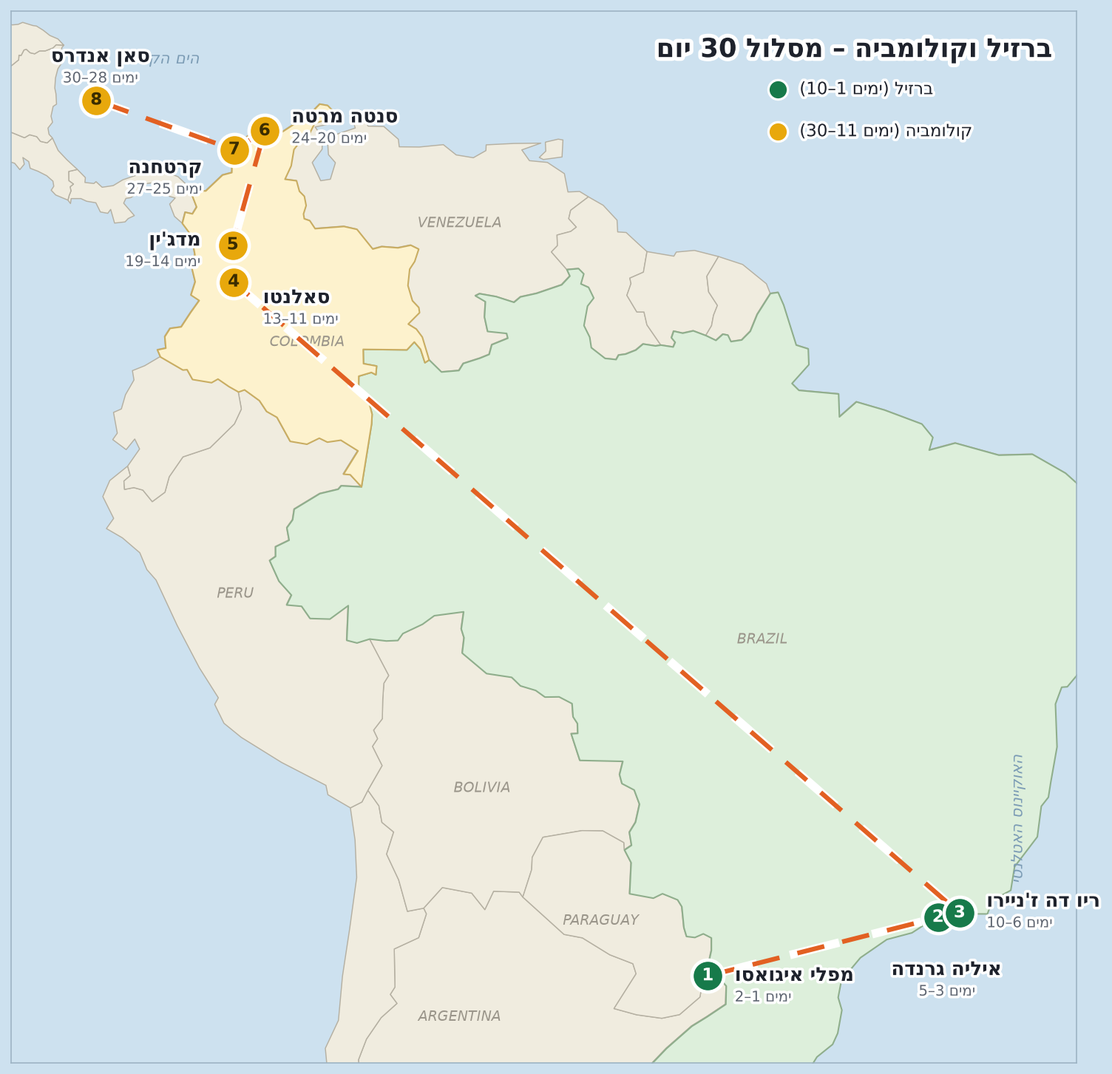
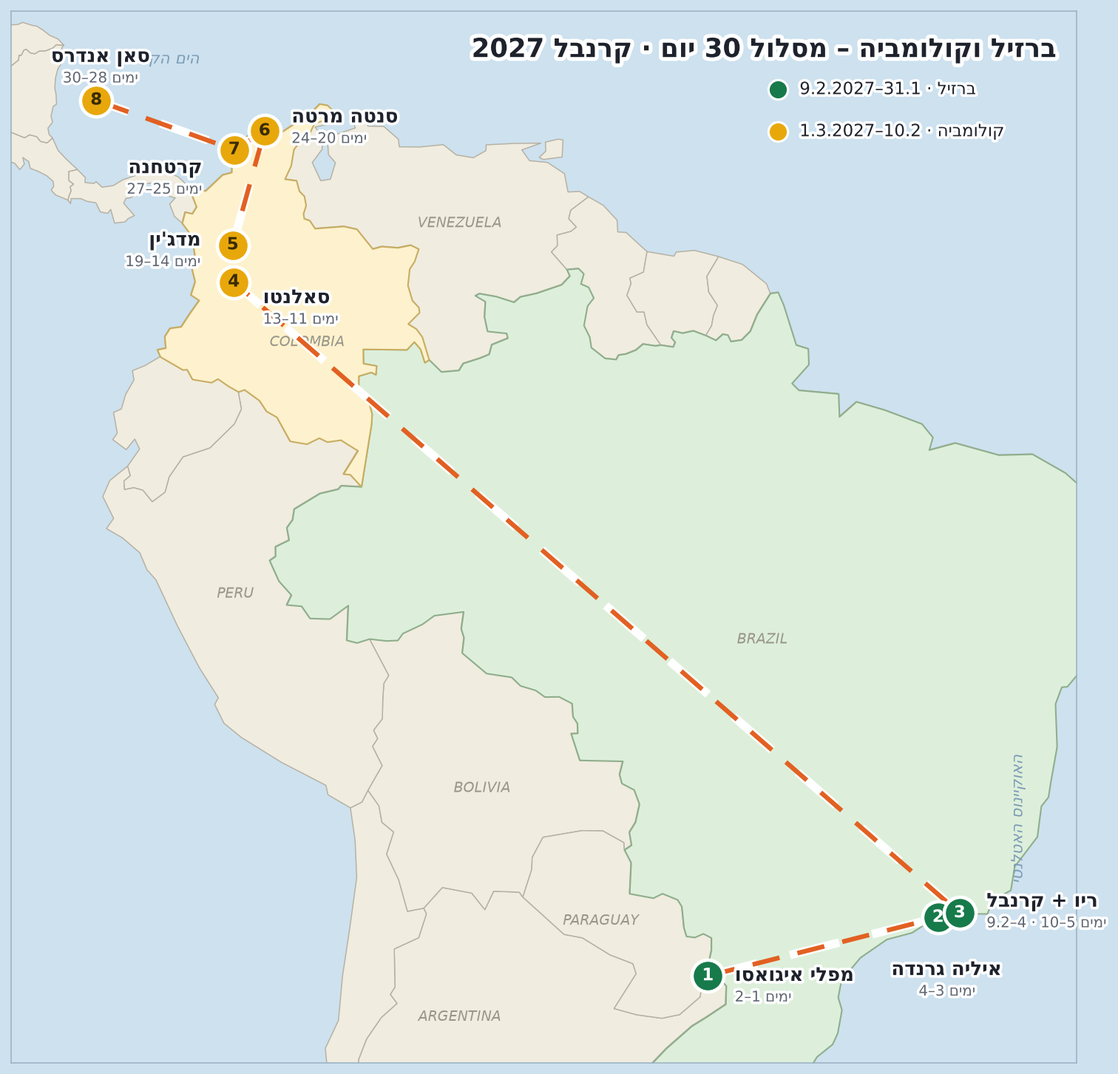
סידור מחדש של חלק ברזיל סביב קרנבל ריו 2027
- עיגון תאריכים: 31.1–1.3.2027, הקרנבל בריו 5–9.2.2027
- איליה גרנדה קוצר ל-2 ימים (3–4), ריו הורחב ל-6 ימים (5–10)
- נוספו 5 אתרי קרנבל: הסמבודרום + 4 בלוקוס מרכזיים עם ימים ושעות
- תאריכים לכל תחנות קולומביה + הערות הזמנה מראש
- עדכון מפת המסלול, דף הטיול, הדף האינטראקטיבי וקובצי ה-KML

Claude-Session: https://claude.ai/code/session_01GLda9AR3MwZ9KZ148tu3PR

diff --git a/trip-map.html b/trip-map.html
@@ -109,7 +109,7 @@
 <div class="wrap">
   <header class="top">
     <h1>🇧🇷🇨🇴 ברזיל וקולומביה — מפת המסלול</h1>
-    <p>30 יום · 8 תחנות · 85 מקומות מסומנים — כל לחיצה נפתחת ב־Google Maps</p>
+    <p>31.1 – 1.3.2027 · מתוזמן לקרנבל בריו 🎭 (5–9.2) · 90 מקומות — כל לחיצה נפתחת ב־Google Maps</p>
   </header>
 
   <figure class="map" id="map">
@@ -119,14 +119,14 @@
         <polyline class="route-halo" points="654.0,887.9 870.1,834.2 890.3,830.2 209.0,249.6 208.0,215.6 244.3,109.7 209.5,127.9 80.0,82.3"/>
         <polyline class="route-line" points="654.0,887.9 870.1,834.2 890.3,830.2 209.0,249.6 208.0,215.6 244.3,109.7 209.5,127.9 80.0,82.3"/>
       </svg>
-      <button class="pin br" style="left:65.40%;top:91.73%" data-target="stop-1" aria-label="איגואסו, ימים 1–2"><span class="dot">1</span><span class="lbl">איגואסו</span></button>
-      <button class="pin br" style="left:87.01%;top:86.17%" data-target="stop-2" aria-label="איליה גרנדה, ימים 3–5"><span class="dot">2</span><span class="lbl">איליה גרנדה</span></button>
-      <button class="pin br" style="left:89.03%;top:85.76%" data-target="stop-3" aria-label="ריו, ימים 6–10"><span class="dot">3</span><span class="lbl">ריו</span></button>
-      <button class="pin co" style="left:20.90%;top:25.79%" data-target="stop-4" aria-label="סאלנטו, ימים 11–13"><span class="dot">4</span><span class="lbl">סאלנטו</span></button>
-      <button class="pin co" style="left:20.80%;top:22.28%" data-target="stop-5" aria-label="מדג'ין, ימים 14–19"><span class="dot">5</span><span class="lbl">מדג'ין</span></button>
-      <button class="pin co" style="left:24.43%;top:11.34%" data-target="stop-6" aria-label="סנטה מרטה, ימים 20–24"><span class="dot">6</span><span class="lbl">סנטה מרטה</span></button>
-      <button class="pin co" style="left:20.95%;top:13.21%" data-target="stop-7" aria-label="קרטחנה, ימים 25–27"><span class="dot">7</span><span class="lbl">קרטחנה</span></button>
-      <button class="pin co" style="left:8.00%;top:8.50%" data-target="stop-8" aria-label="סאן אנדרס, ימים 28–30"><span class="dot">8</span><span class="lbl">סאן אנדרס</span></button>
+      <button class="pin br" style="left:65.40%;top:91.73%" data-target="stop-1" aria-label="איגואסו, ימים 1–2 · א׳–ב׳ 31.1–1.2.2027"><span class="dot">1</span><span class="lbl">איגואסו</span></button>
+      <button class="pin br" style="left:87.01%;top:86.17%" data-target="stop-2" aria-label="איליה גרנדה, ימים 3–4 · ג׳–ד׳ 2–3.2.2027"><span class="dot">2</span><span class="lbl">איליה גרנדה</span></button>
+      <button class="pin br" style="left:89.03%;top:85.76%" data-target="stop-3" aria-label="ריו, ימים 5–10 · ה׳–ג׳ 4–9.2.2027 · הקרנבל: 5–9.2"><span class="dot">3</span><span class="lbl">ריו</span></button>
+      <button class="pin co" style="left:20.90%;top:25.79%" data-target="stop-4" aria-label="סאלנטו, ימים 11–13 · 10–12.2.2027"><span class="dot">4</span><span class="lbl">סאלנטו</span></button>
+      <button class="pin co" style="left:20.80%;top:22.28%" data-target="stop-5" aria-label="מדג'ין, ימים 14–19 · 13–18.2.2027"><span class="dot">5</span><span class="lbl">מדג'ין</span></button>
+      <button class="pin co" style="left:24.43%;top:11.34%" data-target="stop-6" aria-label="סנטה מרטה, ימים 20–24 · 19–23.2.2027"><span class="dot">6</span><span class="lbl">סנטה מרטה</span></button>
+      <button class="pin co" style="left:20.95%;top:13.21%" data-target="stop-7" aria-label="קרטחנה, ימים 25–27 · 24–26.2.2027"><span class="dot">7</span><span class="lbl">קרטחנה</span></button>
+      <button class="pin co" style="left:8.00%;top:8.50%" data-target="stop-8" aria-label="סאן אנדרס, ימים 28–30 · 27.2–1.3.2027"><span class="dot">8</span><span class="lbl">סאן אנדרס</span></button>
     </div>
     <div class="ctrl">
       <button id="zin" aria-label="הגדלה">+</button>
@@ -144,7 +144,7 @@
     <span class="badge br">1</span>
     <div class="stop-t">
       <h2>🇧🇷 מפלי איגואסו (Foz do Iguaçu)</h2>
-      <p class="days">ימים 1–2</p>
+      <p class="days">ימים 1–2 · א׳–ב׳ 31.1–1.2.2027</p>
     </div>
     <a class="area" href="https://www.google.com/maps/search/?api=1&query=Foz%20do%20Igua%C3%A7u%2C%20Brazil" target="_blank" rel="noopener">האזור ב־Google Maps</a>
   </header>
@@ -157,25 +157,25 @@
     <span class="badge br">2</span>
     <div class="stop-t">
       <h2>🇧🇷 האי איליה גרנדה (Ilha Grande)</h2>
-      <p class="days">ימים 3–5</p>
+      <p class="days">ימים 3–4 · ג׳–ד׳ 2–3.2.2027 (קוצר ל-2 ימים לטובת הקרנבל)</p>
     </div>
     <a class="area" href="https://www.google.com/maps/search/?api=1&query=Ilha%20Grande%2C%20Brazil" target="_blank" rel="noopener">האזור ב־Google Maps</a>
   </header>
   <p class="transfer">➔ ✈ טיסה מ-IGU לריו (SDU/GIG) ← 🚐 שאטל ל-Conceição de Jacareí ← 🛥 סירה מהירה לאי.</p>
-  <div class="rows"><a class="row transport" href="https://www.google.com/maps/search/?api=1&query=Concei%C3%A7%C3%A3o%20de%20Jacare%C3%AD%2C%20Mangaratiba" target="_blank" rel="noopener"><span class="em" aria-hidden="true">✈</span><span class="txt"><span class="nm">נמל Conceição de Jacareí</span><span class="ds">נקודת היציאה של הסירות המהירות לאיליה גרנדה (כ-20 דק').</span></span><span class="go" aria-hidden="true">‹</span></a><a class="row attraction" href="https://www.google.com/maps/search/?api=1&query=Vila%20do%20Abra%C3%A3o%2C%20Ilha%20Grande" target="_blank" rel="noopener"><span class="em" aria-hidden="true">🥾</span><span class="txt"><span class="nm">Vila do Abraão – הכפר הראשי</span><span class="ds">הכפר הראשי של האי – בסיס הלינה, המסעדות והסירות.</span></span><span class="go" aria-hidden="true">‹</span></a><a class="row attraction" href="https://www.google.com/maps/search/?api=1&query=Praia%20de%20Lopes%20Mendes%2C%20Ilha%20Grande" target="_blank" rel="noopener"><span class="em" aria-hidden="true">🥾</span><span class="txt"><span class="nm">חוף Lopes Mendes</span><span class="ds">טרק של כ-2.5 שעות בג'ונגל מ-Abraão לאחד החופים היפים בברזיל.</span></span><span class="go" aria-hidden="true">‹</span></a><a class="row attraction" href="https://www.google.com/maps/search/?api=1&query=Lagoa%20Azul%2C%20Ilha%20Grande" target="_blank" rel="noopener"><span class="em" aria-hidden="true">🥾</span><span class="txt"><span class="nm">Lagoa Azul – הלגונה הכחולה</span><span class="ds">עצירת שנורקול בשיט Volta a Ilha ללגונות הטורקיז.</span></span><span class="go" aria-hidden="true">‹</span></a><a class="row nightlife" href="https://www.google.com/maps/search/?api=1&query=Praia%20do%20Abra%C3%A3o%2C%20Ilha%20Grande" target="_blank" rel="noopener"><span class="em" aria-hidden="true">🍻</span><span class="txt"><span class="nm">חוף Abraão – מסיבות Forró ומדורות</span><span class="ds">מסיבות Forró על קו המים ומדורות בחוף בלילה.</span></span><span class="go" aria-hidden="true">‹</span></a><a class="row hotel" href="https://www.google.com/maps/search/?api=1&query=Pousada%20Naturalia%2C%20Ilha%20Grande" target="_blank" rel="noopener"><span class="em" aria-hidden="true">🏨</span><span class="txt"><span class="nm">Pousada Naturalia (בוטיק)</span><span class="ds">פוסאדת בוטיק על החוף ב-Vila do Abraão.</span></span><span class="go" aria-hidden="true">‹</span></a><a class="row hotel" href="https://www.google.com/maps/search/?api=1&query=Che%20Lagarto%20Hostel%20Ilha%20Grande" target="_blank" rel="noopener"><span class="em" aria-hidden="true">🏨</span><span class="txt"><span class="nm">Che Lagarto Hostel (הוסטל)</span><span class="ds">הוסטל ברמה גבוהה במרכז Abraão.</span></span><span class="go" aria-hidden="true">‹</span></a></div>
+  <div class="rows"><a class="row transport" href="https://www.google.com/maps/search/?api=1&query=Concei%C3%A7%C3%A3o%20de%20Jacare%C3%AD%2C%20Mangaratiba" target="_blank" rel="noopener"><span class="em" aria-hidden="true">✈</span><span class="txt"><span class="nm">נמל Conceição de Jacareí</span><span class="ds">נקודת היציאה של הסירות המהירות לאיליה גרנדה (כ-20 דק').</span></span><span class="go" aria-hidden="true">‹</span></a><a class="row attraction" href="https://www.google.com/maps/search/?api=1&query=Vila%20do%20Abra%C3%A3o%2C%20Ilha%20Grande" target="_blank" rel="noopener"><span class="em" aria-hidden="true">🥾</span><span class="txt"><span class="nm">Vila do Abraão – הכפר הראשי</span><span class="ds">הכפר הראשי של האי – בסיס הלינה, המסעדות והסירות.</span></span><span class="go" aria-hidden="true">‹</span></a><a class="row attraction" href="https://www.google.com/maps/search/?api=1&query=Praia%20de%20Lopes%20Mendes%2C%20Ilha%20Grande" target="_blank" rel="noopener"><span class="em" aria-hidden="true">🥾</span><span class="txt"><span class="nm">חוף Lopes Mendes</span><span class="ds">טרק של כ-2.5 שעות בג'ונגל מ-Abraão לאחד החופים היפים בברזיל. עם 2 ימים בלבד – זה הטרק שחובה לבחור.</span></span><span class="go" aria-hidden="true">‹</span></a><a class="row attraction" href="https://www.google.com/maps/search/?api=1&query=Lagoa%20Azul%2C%20Ilha%20Grande" target="_blank" rel="noopener"><span class="em" aria-hidden="true">🥾</span><span class="txt"><span class="nm">Lagoa Azul – הלגונה הכחולה</span><span class="ds">עצירת שנורקול בשיט Volta a Ilha ללגונות הטורקיז.</span></span><span class="go" aria-hidden="true">‹</span></a><a class="row nightlife" href="https://www.google.com/maps/search/?api=1&query=Praia%20do%20Abra%C3%A3o%2C%20Ilha%20Grande" target="_blank" rel="noopener"><span class="em" aria-hidden="true">🍻</span><span class="txt"><span class="nm">חוף Abraão – מסיבות Forró ומדורות</span><span class="ds">מסיבות Forró על קו המים ומדורות בחוף בלילה.</span></span><span class="go" aria-hidden="true">‹</span></a><a class="row hotel" href="https://www.google.com/maps/search/?api=1&query=Pousada%20Naturalia%2C%20Ilha%20Grande" target="_blank" rel="noopener"><span class="em" aria-hidden="true">🏨</span><span class="txt"><span class="nm">Pousada Naturalia (בוטיק)</span><span class="ds">פוסאדת בוטיק על החוף ב-Vila do Abraão.</span></span><span class="go" aria-hidden="true">‹</span></a><a class="row hotel" href="https://www.google.com/maps/search/?api=1&query=Che%20Lagarto%20Hostel%20Ilha%20Grande" target="_blank" rel="noopener"><span class="em" aria-hidden="true">🏨</span><span class="txt"><span class="nm">Che Lagarto Hostel (הוסטל)</span><span class="ds">הוסטל ברמה גבוהה במרכז Abraão.</span></span><span class="go" aria-hidden="true">‹</span></a></div>
 </section>
 
 <section class="stop" id="stop-3">
   <header class="stop-h">
     <span class="badge br">3</span>
     <div class="stop-t">
-      <h2>🇧🇷 ריו דה ז'ניירו (Rio de Janeiro)</h2>
-      <p class="days">ימים 6–10</p>
+      <h2>🇧🇷 ריו דה ז'ניירו + קרנבל 2027</h2>
+      <p class="days">ימים 5–10 · ה׳–ג׳ 4–9.2.2027 · הקרנבל: 5–9.2</p>
     </div>
     <a class="area" href="https://www.google.com/maps/search/?api=1&query=Rio%20de%20Janeiro%2C%20Brazil" target="_blank" rel="noopener">האזור ב־Google Maps</a>
   </header>
-  <p class="transfer">➔ 🛥 סירה חזרה ליבשה ← 🚐 שאטל ישיר לריו דה ז'ניירו (כ-3 שעות).</p>
-  <div class="rows"><a class="row attraction" href="https://www.google.com/maps/search/?api=1&query=Cristo%20Redentor%2C%20Rio%20de%20Janeiro" target="_blank" rel="noopener"><span class="em" aria-hidden="true">🥾</span><span class="txt"><span class="nm">פסל ישו הגואל</span><span class="ds">האייקון של ריו על הר הקורקובדו – לעלות ברכבת הקוגים או בוואן.</span></span><span class="go" aria-hidden="true">‹</span></a><a class="row attraction" href="https://www.google.com/maps/search/?api=1&query=P%C3%A3o%20de%20A%C3%A7%C3%BAcar%2C%20Rio%20de%20Janeiro" target="_blank" rel="noopener"><span class="em" aria-hidden="true">🥾</span><span class="txt"><span class="nm">הר הסוכר (Pão de Açúcar)</span><span class="ds">רכבל לתצפית השקיעה הכי טובה בעיר.</span></span><span class="go" aria-hidden="true">‹</span></a><a class="row attraction" href="https://www.google.com/maps/search/?api=1&query=Praia%20de%20Ipanema%2C%20Rio%20de%20Janeiro" target="_blank" rel="noopener"><span class="em" aria-hidden="true">🥾</span><span class="txt"><span class="nm">חוף איפנמה</span><span class="ds">החוף המפורסם – פוסטו 9, שקיעה ב-Arpoador ליד.</span></span><span class="go" aria-hidden="true">‹</span></a><a class="row attraction" href="https://www.google.com/maps/search/?api=1&query=Praia%20de%20Copacabana%2C%20Rio%20de%20Janeiro" target="_blank" rel="noopener"><span class="em" aria-hidden="true">🥾</span><span class="txt"><span class="nm">חוף קופקבנה</span><span class="ds">טיילת הגלים המפורסמת.</span></span><span class="go" aria-hidden="true">‹</span></a><a class="row attraction" href="https://www.google.com/maps/search/?api=1&query=Trilha%20Morro%20Dois%20Irm%C3%A3os%2C%20Vidigal%2C%20Rio%20de%20Janeiro" target="_blank" rel="noopener"><span class="em" aria-hidden="true">🥾</span><span class="txt"><span class="nm">טרק Morro Dois Irmãos (מפאבלת וידיגל)</span><span class="ds">מוטו-טקסי לראש פאבלת וידיגל + כ-40 דק' הליכה לתצפית הכי שווה בריו.</span></span><span class="go" aria-hidden="true">‹</span></a><a class="row nightlife" href="https://www.google.com/maps/search/?api=1&query=Pedra%20do%20Sal%2C%20Rio%20de%20Janeiro" target="_blank" rel="noopener"><span class="em" aria-hidden="true">🍻</span><span class="txt"><span class="nm">Pedra do Sal – סמבה פתוחה</span><span class="ds">מסיבת סמבה פתוחה ברחוב – בימי שני ושישי.</span></span><span class="go" aria-hidden="true">‹</span></a><a class="row nightlife" href="https://www.google.com/maps/search/?api=1&query=Rio%20Scenarium%2C%20Lapa%2C%20Rio%20de%20Janeiro" target="_blank" rel="noopener"><span class="em" aria-hidden="true">🍻</span><span class="txt"><span class="nm">Rio Scenarium – מועדון סמבה בלאפה</span><span class="ds">מועדון סמבה איקוני על 3 קומות בלאפה.</span></span><span class="go" aria-hidden="true">‹</span></a><a class="row nightlife" href="https://www.google.com/maps/search/?api=1&query=Bosque%20Bar%2C%20Rio%20de%20Janeiro" target="_blank" rel="noopener"><span class="em" aria-hidden="true">🍻</span><span class="txt"><span class="nm">Bosque Bar – רופטופ</span><span class="ds">בר רופטופ ירוק ואווירתי.</span></span><span class="go" aria-hidden="true">‹</span></a><a class="row nightlife" href="https://www.google.com/maps/search/?api=1&query=Canastra%20Bar%2C%20Ipanema%2C%20Rio%20de%20Janeiro" target="_blank" rel="noopener"><span class="em" aria-hidden="true">🍻</span><span class="txt"><span class="nm">Canastra Rose – בר קוקטיילים</span><span class="ds">בר קוקטיילים/יין צרפתי-ברזילאי באיפנמה.</span></span><span class="go" aria-hidden="true">‹</span></a><a class="row hotel" href="https://www.google.com/maps/search/?api=1&query=Yoo2%20Rio%20de%20Janeiro%20by%20Intercity" target="_blank" rel="noopener"><span class="em" aria-hidden="true">🏨</span><span class="txt"><span class="nm">Yoo2 Rio (בוטיק)</span><span class="ds">מלון בוטיק מעוצב עם רופטופ מול הר הסוכר (בוטפוגו).</span></span><span class="go" aria-hidden="true">‹</span></a><a class="row hotel" href="https://www.google.com/maps/search/?api=1&query=Janeiro%20Hotel%2C%20Leblon%2C%20Rio%20de%20Janeiro" target="_blank" rel="noopener"><span class="em" aria-hidden="true">🏨</span><span class="txt"><span class="nm">Janeiro Hotel (בוטיק)</span><span class="ds">מלון בוטיק שקט מול חוף לבלון.</span></span><span class="go" aria-hidden="true">‹</span></a><a class="row hotel" href="https://www.google.com/maps/search/?api=1&query=Selina%20Copacabana%2C%20Rio%20de%20Janeiro" target="_blank" rel="noopener"><span class="em" aria-hidden="true">🏨</span><span class="txt"><span class="nm">Selina Copacabana (הוסטל)</span><span class="ds">הוסטל-בוטיק ברמה גבוהה בקופקבנה.</span></span><span class="go" aria-hidden="true">‹</span></a><a class="row hotel" href="https://www.google.com/maps/search/?api=1&query=Ipanema%20Beach%20House%2C%20Rio%20de%20Janeiro" target="_blank" rel="noopener"><span class="em" aria-hidden="true">🏨</span><span class="txt"><span class="nm">Ipanema Beach House (הוסטל)</span><span class="ds">הוסטל עם בריכה במרחק הליכה מחוף איפנמה.</span></span><span class="go" aria-hidden="true">‹</span></a><a class="row transport" href="https://www.google.com/maps/search/?api=1&query=Santos%20Dumont%20Airport%2C%20Rio%20de%20Janeiro" target="_blank" rel="noopener"><span class="em" aria-hidden="true">✈</span><span class="txt"><span class="nm">שדה תעופה סנטוס דומון (SDU)</span><span class="ds">שדה פנים-ארצי במרכז העיר.</span></span><span class="go" aria-hidden="true">‹</span></a><a class="row transport" href="https://www.google.com/maps/search/?api=1&query=Rio%20de%20Janeiro%E2%80%93Gale%C3%A3o%20International%20Airport" target="_blank" rel="noopener"><span class="em" aria-hidden="true">✈</span><span class="txt"><span class="nm">שדה תעופה גליאאו (GIG)</span><span class="ds">השדה הבינלאומי – ממנו ממריאים לבוגוטה.</span></span><span class="go" aria-hidden="true">‹</span></a></div>
+  <p class="transfer">➔ 🛥 סירה חזרה ליבשה בבוקר יום ה׳ ← 🚐 שאטל ישיר לריו (כ-3 שעות). 🎭 קרנבל! להזמין לינה וכרטיסי סמבודרום 3–6 חודשים מראש – המחירים משולשים והכול נתפס.</p>
+  <div class="rows"><a class="row attraction" href="https://www.google.com/maps/search/?api=1&query=Cristo%20Redentor%2C%20Rio%20de%20Janeiro" target="_blank" rel="noopener"><span class="em" aria-hidden="true">🥾</span><span class="txt"><span class="nm">פסל ישו הגואל</span><span class="ds">האייקון של ריו על הר הקורקובדו – לעלות ברכבת הקוגים או בוואן.</span></span><span class="go" aria-hidden="true">‹</span></a><a class="row attraction" href="https://www.google.com/maps/search/?api=1&query=P%C3%A3o%20de%20A%C3%A7%C3%BAcar%2C%20Rio%20de%20Janeiro" target="_blank" rel="noopener"><span class="em" aria-hidden="true">🥾</span><span class="txt"><span class="nm">הר הסוכר (Pão de Açúcar)</span><span class="ds">רכבל לתצפית השקיעה הכי טובה בעיר.</span></span><span class="go" aria-hidden="true">‹</span></a><a class="row attraction" href="https://www.google.com/maps/search/?api=1&query=Praia%20de%20Ipanema%2C%20Rio%20de%20Janeiro" target="_blank" rel="noopener"><span class="em" aria-hidden="true">🥾</span><span class="txt"><span class="nm">חוף איפנמה</span><span class="ds">החוף המפורסם – פוסטו 9, שקיעה ב-Arpoador ליד.</span></span><span class="go" aria-hidden="true">‹</span></a><a class="row attraction" href="https://www.google.com/maps/search/?api=1&query=Praia%20de%20Copacabana%2C%20Rio%20de%20Janeiro" target="_blank" rel="noopener"><span class="em" aria-hidden="true">🥾</span><span class="txt"><span class="nm">חוף קופקבנה</span><span class="ds">טיילת הגלים המפורסמת.</span></span><span class="go" aria-hidden="true">‹</span></a><a class="row attraction" href="https://www.google.com/maps/search/?api=1&query=Trilha%20Morro%20Dois%20Irm%C3%A3os%2C%20Vidigal%2C%20Rio%20de%20Janeiro" target="_blank" rel="noopener"><span class="em" aria-hidden="true">🥾</span><span class="txt"><span class="nm">טרק Morro Dois Irmãos (מפאבלת וידיגל)</span><span class="ds">מוטו-טקסי לראש פאבלת וידיגל + כ-40 דק' הליכה לתצפית הכי שווה בריו.</span></span><span class="go" aria-hidden="true">‹</span></a><a class="row attraction" href="https://www.google.com/maps/search/?api=1&query=Sambodromo%20Marques%20de%20Sapucai%2C%20Rio%20de%20Janeiro" target="_blank" rel="noopener"><span class="em" aria-hidden="true">🥾</span><span class="txt"><span class="nm">🎭 הסמבודרום – מצעדי הליגה הבכירה</span><span class="ds">האירוע המרכזי של הקרנבל: מצעדי בתי הספר הבכירים בימים ראשון–שלישי 7–9.2 מ-21:00 עד הבוקר. כרטיסים מראש!</span></span><span class="go" aria-hidden="true">‹</span></a><a class="row nightlife" href="https://www.google.com/maps/search/?api=1&query=Cordao%20da%20Bola%20Preta%2C%20Centro%2C%20Rio%20de%20Janeiro" target="_blank" rel="noopener"><span class="em" aria-hidden="true">🍻</span><span class="txt"><span class="nm">🎭 בלוקו Cordão da Bola Preta</span><span class="ds">בלוקו הרחוב הוותיק והענק של ריו – שבת 6.2 בבוקר במרכז העיר. מיליון חוגגים ברחוב.</span></span><span class="go" aria-hidden="true">‹</span></a><a class="row nightlife" href="https://www.google.com/maps/search/?api=1&query=Largo%20do%20Curvelo%2C%20Santa%20Teresa%2C%20Rio%20de%20Janeiro" target="_blank" rel="noopener"><span class="em" aria-hidden="true">🍻</span><span class="txt"><span class="nm">🎭 בלוקו Carmelitas – סנטה טרזה</span><span class="ds">בלוקו שכונתי אהוב בסמטאות סנטה טרזה – פתיחת הקרנבל, שישי 5.2.</span></span><span class="go" aria-hidden="true">‹</span></a><a class="row nightlife" href="https://www.google.com/maps/search/?api=1&query=Aterro%20do%20Flamengo%2C%20Rio%20de%20Janeiro" target="_blank" rel="noopener"><span class="em" aria-hidden="true">🍻</span><span class="txt"><span class="nm">🎭 בלוקו Sargento Pimenta</span><span class="ds">סמבה על שירי הביטלס בפארק פלמנגו – שני 8.2. מהבלוקוס הכי כיפיים בעיר.</span></span><span class="go" aria-hidden="true">‹</span></a><a class="row nightlife" href="https://www.google.com/maps/search/?api=1&query=Praia%20de%20Copacabana%2C%20Posto%205%2C%20Rio%20de%20Janeiro" target="_blank" rel="noopener"><span class="em" aria-hidden="true">🍻</span><span class="txt"><span class="nm">🎭 בלוקו da Favorita – קופקבנה</span><span class="ds">במת ענק ומסיבה על קו החוף של קופקבנה – שבת 6.2 אחה״צ.</span></span><span class="go" aria-hidden="true">‹</span></a><a class="row nightlife" href="https://www.google.com/maps/search/?api=1&query=Pedra%20do%20Sal%2C%20Rio%20de%20Janeiro" target="_blank" rel="noopener"><span class="em" aria-hidden="true">🍻</span><span class="txt"><span class="nm">Pedra do Sal – סמבה פתוחה</span><span class="ds">מסיבת סמבה פתוחה ברחוב – בימי שני ושישי.</span></span><span class="go" aria-hidden="true">‹</span></a><a class="row nightlife" href="https://www.google.com/maps/search/?api=1&query=Rio%20Scenarium%2C%20Lapa%2C%20Rio%20de%20Janeiro" target="_blank" rel="noopener"><span class="em" aria-hidden="true">🍻</span><span class="txt"><span class="nm">Rio Scenarium – מועדון סמבה בלאפה</span><span class="ds">מועדון סמבה איקוני על 3 קומות בלאפה.</span></span><span class="go" aria-hidden="true">‹</span></a><a class="row nightlife" href="https://www.google.com/maps/search/?api=1&query=Bosque%20Bar%2C%20Rio%20de%20Janeiro" target="_blank" rel="noopener"><span class="em" aria-hidden="true">🍻</span><span class="txt"><span class="nm">Bosque Bar – רופטופ</span><span class="ds">בר רופטופ ירוק ואווירתי.</span></span><span class="go" aria-hidden="true">‹</span></a><a class="row nightlife" href="https://www.google.com/maps/search/?api=1&query=Canastra%20Bar%2C%20Ipanema%2C%20Rio%20de%20Janeiro" target="_blank" rel="noopener"><span class="em" aria-hidden="true">🍻</span><span class="txt"><span class="nm">Canastra Rose – בר קוקטיילים</span><span class="ds">בר קוקטיילים/יין צרפתי-ברזילאי באיפנמה.</span></span><span class="go" aria-hidden="true">‹</span></a><a class="row hotel" href="https://www.google.com/maps/search/?api=1&query=Yoo2%20Rio%20de%20Janeiro%20by%20Intercity" target="_blank" rel="noopener"><span class="em" aria-hidden="true">🏨</span><span class="txt"><span class="nm">Yoo2 Rio (בוטיק)</span><span class="ds">מלון בוטיק מעוצב עם רופטופ מול הר הסוכר (בוטפוגו). בקרנבל – להזמין חודשים מראש!</span></span><span class="go" aria-hidden="true">‹</span></a><a class="row hotel" href="https://www.google.com/maps/search/?api=1&query=Janeiro%20Hotel%2C%20Leblon%2C%20Rio%20de%20Janeiro" target="_blank" rel="noopener"><span class="em" aria-hidden="true">🏨</span><span class="txt"><span class="nm">Janeiro Hotel (בוטיק)</span><span class="ds">מלון בוטיק שקט מול חוף לבלון.</span></span><span class="go" aria-hidden="true">‹</span></a><a class="row hotel" href="https://www.google.com/maps/search/?api=1&query=Selina%20Copacabana%2C%20Rio%20de%20Janeiro" target="_blank" rel="noopener"><span class="em" aria-hidden="true">🏨</span><span class="txt"><span class="nm">Selina Copacabana (הוסטל)</span><span class="ds">הוסטל-בוטיק ברמה גבוהה בקופקבנה.</span></span><span class="go" aria-hidden="true">‹</span></a><a class="row hotel" href="https://www.google.com/maps/search/?api=1&query=Ipanema%20Beach%20House%2C%20Rio%20de%20Janeiro" target="_blank" rel="noopener"><span class="em" aria-hidden="true">🏨</span><span class="txt"><span class="nm">Ipanema Beach House (הוסטל)</span><span class="ds">הוסטל עם בריכה במרחק הליכה מחוף איפנמה.</span></span><span class="go" aria-hidden="true">‹</span></a><a class="row transport" href="https://www.google.com/maps/search/?api=1&query=Santos%20Dumont%20Airport%2C%20Rio%20de%20Janeiro" target="_blank" rel="noopener"><span class="em" aria-hidden="true">✈</span><span class="txt"><span class="nm">שדה תעופה סנטוס דומון (SDU)</span><span class="ds">שדה פנים-ארצי במרכז העיר.</span></span><span class="go" aria-hidden="true">‹</span></a><a class="row transport" href="https://www.google.com/maps/search/?api=1&query=Rio%20de%20Janeiro%E2%80%93Gale%C3%A3o%20International%20Airport" target="_blank" rel="noopener"><span class="em" aria-hidden="true">✈</span><span class="txt"><span class="nm">שדה תעופה גליאאו (GIG)</span><span class="ds">השדה הבינלאומי – ממנו ממריאים לבוגוטה.</span></span><span class="go" aria-hidden="true">‹</span></a></div>
 </section>
 
 <section class="stop" id="stop-4">
@@ -183,11 +183,11 @@
     <span class="badge co">4</span>
     <div class="stop-t">
       <h2>🇨🇴 עמק הקפה – סאלנטו (Salento)</h2>
-      <p class="days">ימים 11–13 (1–3 בקולומביה)</p>
+      <p class="days">ימים 11–13 · 10–12.2.2027 (1–3 בקולומביה)</p>
     </div>
     <a class="area" href="https://www.google.com/maps/search/?api=1&query=Salento%2C%20Quind%C3%ADo%2C%20Colombia" target="_blank" rel="noopener">האזור ב־Google Maps</a>
   </header>
-  <p class="transfer">➔ ✈ ריו (GIG) ← בוגוטה (BOG) ← טיסת פנים לפרירה (PEI) / ארמניה (AXM) ← 🚕 מונית קצרה לסאלנטו.</p>
+  <p class="transfer">➔ ✈ יום ד׳ 10.2 (למחרת סיום הקרנבל): ריו (GIG) ← בוגוטה (BOG) ← טיסת פנים לפרירה (PEI) / ארמניה (AXM) ← 🚕 מונית קצרה לסאלנטו.</p>
   <div class="rows"><a class="row transport" href="https://www.google.com/maps/search/?api=1&query=Mateca%C3%B1a%20International%20Airport%2C%20Pereira" target="_blank" rel="noopener"><span class="em" aria-hidden="true">✈</span><span class="txt"><span class="nm">שדה תעופה פרירה (PEI)</span><span class="ds">אופציית נחיתה 1 – כשעה נסיעה לסאלנטו.</span></span><span class="go" aria-hidden="true">‹</span></a><a class="row transport" href="https://www.google.com/maps/search/?api=1&query=El%20Ed%C3%A9n%20International%20Airport%2C%20Armenia" target="_blank" rel="noopener"><span class="em" aria-hidden="true">✈</span><span class="txt"><span class="nm">שדה תעופה ארמניה (AXM)</span><span class="ds">אופציית נחיתה 2 – כ-50 דק' נסיעה לסאלנטו.</span></span><span class="go" aria-hidden="true">‹</span></a><a class="row attraction" href="https://www.google.com/maps/search/?api=1&query=Plaza%20de%20Bol%C3%ADvar%2C%20Salento%2C%20Quind%C3%ADo" target="_blank" rel="noopener"><span class="em" aria-hidden="true">🥾</span><span class="txt"><span class="nm">כיכר סאלנטו והרחוב הצבעוני</span><span class="ds">העיירה הצבעונית של עמק הקפה – Calle Real והמירדור.</span></span><span class="go" aria-hidden="true">‹</span></a><a class="row attraction" href="https://www.google.com/maps/search/?api=1&query=Valle%20de%20Cocora%2C%20Salento" target="_blank" rel="noopener"><span class="em" aria-hidden="true">🥾</span><span class="txt"><span class="nm">טרק עמק הקוקורה (Valle de Cocora)</span><span class="ds">טרק 5–6 שעות בין עצי דקל השעווה הענקיים. ג'יפים יוצאים מהכיכר בבוקר.</span></span><span class="go" aria-hidden="true">‹</span></a><a class="row attraction" href="https://www.google.com/maps/search/?api=1&query=Finca%20El%20Ocaso%20/%20Cafe%20Don%20Elias%2C%20Salento" target="_blank" rel="noopener"><span class="em" aria-hidden="true">🥾</span><span class="txt"><span class="nm">חוות הקפה Don Elias</span><span class="ds">סיור קפה משפחתי אורגני – מהפרי אל הכוס.</span></span><span class="go" aria-hidden="true">‹</span></a><a class="row attraction" href="https://www.google.com/maps/search/?api=1&query=Filandia%2C%20Quind%C3%ADo" target="_blank" rel="noopener"><span class="em" aria-hidden="true">🥾</span><span class="txt"><span class="nm">פילנדיה (Filandia)</span><span class="ds">עיירה צבעונית ושקטה ליום כיף – 30 דק' מסאלנטו.</span></span><span class="go" aria-hidden="true">‹</span></a><a class="row nightlife" href="https://www.google.com/maps/search/?api=1&query=Cancha%20de%20Tejo%20Los%20Amigos%2C%20Salento" target="_blank" rel="noopener"><span class="em" aria-hidden="true">🍻</span><span class="txt"><span class="nm">Los Amigos – משחק טחו</span><span class="ds">טחו – זריקות על מטרות אבק שריפה + בירה. חובה!</span></span><span class="go" aria-hidden="true">‹</span></a><a class="row nightlife" href="https://www.google.com/maps/search/?api=1&query=Billar%20Danubio%2C%20Salento" target="_blank" rel="noopener"><span class="em" aria-hidden="true">🍻</span><span class="txt"><span class="nm">Billar Danubio – ביליארד מקומי</span><span class="ds">אולם ביליארד מקומי אותנטי על הכיכר.</span></span><span class="go" aria-hidden="true">‹</span></a><a class="row hotel" href="https://www.google.com/maps/search/?api=1&query=Kawa%20Mountain%20Retreat%2C%20Salento" target="_blank" rel="noopener"><span class="em" aria-hidden="true">🏨</span><span class="txt"><span class="nm">Hotel Kawa Mountain Retreat (בוטיק)</span><span class="ds">ריטריט בוטיק עם נוף להרים.</span></span><span class="go" aria-hidden="true">‹</span></a><a class="row hotel" href="https://www.google.com/maps/search/?api=1&query=Coffee%20Tree%20Boutique%20Hostel%2C%20Salento" target="_blank" rel="noopener"><span class="em" aria-hidden="true">🏨</span><span class="txt"><span class="nm">Coffee Tree Boutique Hostel (הוסטל)</span><span class="ds">הוסטל בוטיק ברמה גבוהה.</span></span><span class="go" aria-hidden="true">‹</span></a></div>
 </section>
 
@@ -196,7 +196,7 @@
     <span class="badge co">5</span>
     <div class="stop-t">
       <h2>🇨🇴 מדג'ין (Medellín)</h2>
-      <p class="days">ימים 14–19 (4–9 בקולומביה)</p>
+      <p class="days">ימים 14–19 · 13–18.2.2027 (4–9 בקולומביה)</p>
     </div>
     <a class="area" href="https://www.google.com/maps/search/?api=1&query=Medell%C3%ADn%2C%20Colombia" target="_blank" rel="noopener">האזור ב־Google Maps</a>
   </header>
@@ -209,7 +209,7 @@
     <span class="badge co">6</span>
     <div class="stop-t">
       <h2>🇨🇴 סנטה מרטה, מינקה וטיירונה</h2>
-      <p class="days">ימים 20–24 (10–14 בקולומביה)</p>
+      <p class="days">ימים 20–24 · 19–23.2.2027 (10–14 בקולומביה)</p>
     </div>
     <a class="area" href="https://www.google.com/maps/search/?api=1&query=Santa%20Marta%2C%20Colombia" target="_blank" rel="noopener">האזור ב־Google Maps</a>
   </header>
@@ -222,7 +222,7 @@
     <span class="badge co">7</span>
     <div class="stop-t">
       <h2>🇨🇴 קרטחנה (Cartagena)</h2>
-      <p class="days">ימים 25–27 (15–17 בקולומביה)</p>
+      <p class="days">ימים 25–27 · 24–26.2.2027 (15–17 בקולומביה)</p>
     </div>
     <a class="area" href="https://www.google.com/maps/search/?api=1&query=Cartagena%2C%20Colombia" target="_blank" rel="noopener">האזור ב־Google Maps</a>
   </header>
@@ -235,7 +235,7 @@
     <span class="badge co">8</span>
     <div class="stop-t">
       <h2>🇨🇴 האי סאן אנדרס (San Andrés)</h2>
-      <p class="days">ימים 28–30 (18–20 בקולומביה)</p>
+      <p class="days">ימים 28–30 · 27.2–1.3.2027 (18–20 בקולומביה)</p>
     </div>
     <a class="area" href="https://www.google.com/maps/search/?api=1&query=San%20Andr%C3%A9s%2C%20Colombia" target="_blank" rel="noopener">האזור ב־Google Maps</a>
   </header>

diff --git a/trip.html b/trip.html
@@ -60,7 +60,7 @@
 <div class="wrap">
   <header class="hero">
     <h1>🇧🇷🇨🇴 ברזיל וקולומביה – 30 יום</h1>
-    <p>איגואסו ← איליה גרנדה ← ריו ← עמק הקפה ← מדג'ין ← סנטה מרטה ← קרטחנה ← סאן אנדרס</p>
+    <p>31.1 – 1.3.2027 · מתוזמן לקרנבל בריו (5–9.2) 🎭<br>איגואסו ← איליה גרנדה ← ריו ← עמק הקפה ← מדג'ין ← סנטה מרטה ← קרטחנה ← סאן אנדרס</p>
   </header>
 
   <div class="mapbox" id="mapviewer">
@@ -103,7 +103,7 @@
         <span class="num">1</span>
         <div>
           <h2>🇧🇷 מפלי איגואסו (Foz do Iguaçu)</h2>
-          <span class="days">ימים 1–2</span>
+          <span class="days">ימים 1–2 · א׳–ב׳ 31.1–1.2.2027</span>
         </div>
       </div>
       <p class="transfer">➔ ✈ טיסה בינלאומית לנחיתה בשדה התעופה של איגואסו (IGU).</p>
@@ -123,14 +123,14 @@
         <span class="num">2</span>
         <div>
           <h2>🇧🇷 האי איליה גרנדה (Ilha Grande)</h2>
-          <span class="days">ימים 3–5</span>
+          <span class="days">ימים 3–4 · ג׳–ד׳ 2–3.2.2027 (קוצר ל-2 ימים לטובת הקרנבל)</span>
         </div>
       </div>
       <p class="transfer">➔ ✈ טיסה מ-IGU לריו (SDU/GIG) ← 🚐 שאטל ל-Conceição de Jacareí ← 🛥 סירה מהירה לאי.</p>
       <ul class="places">
         <li class="place transport"><span class="cat">✈</span><div><a href="https://www.google.com/maps/search/?api=1&query=Concei%C3%A7%C3%A3o%20de%20Jacare%C3%AD%2C%20Mangaratiba" target="_blank" rel="noopener">נמל Conceição de Jacareí</a><p>נקודת היציאה של הסירות המהירות לאיליה גרנדה (כ-20 דק').</p><button class="mapbtn" data-q="Conceição de Jacareí, Mangaratiba" data-z="15">🗺 הצג במפה למעלה</button></div></li>
         <li class="place attraction"><span class="cat">🥾</span><div><a href="https://www.google.com/maps/search/?api=1&query=Vila%20do%20Abra%C3%A3o%2C%20Ilha%20Grande" target="_blank" rel="noopener">Vila do Abraão – הכפר הראשי</a><p>הכפר הראשי של האי – בסיס הלינה, המסעדות והסירות.</p><button class="mapbtn" data-q="Vila do Abraão, Ilha Grande" data-z="15">🗺 הצג במפה למעלה</button></div></li>
-        <li class="place attraction"><span class="cat">🥾</span><div><a href="https://www.google.com/maps/search/?api=1&query=Praia%20de%20Lopes%20Mendes%2C%20Ilha%20Grande" target="_blank" rel="noopener">חוף Lopes Mendes</a><p>טרק של כ-2.5 שעות בג'ונגל מ-Abraão לאחד החופים היפים בברזיל.</p><button class="mapbtn" data-q="Praia de Lopes Mendes, Ilha Grande" data-z="15">🗺 הצג במפה למעלה</button></div></li>
+        <li class="place attraction"><span class="cat">🥾</span><div><a href="https://www.google.com/maps/search/?api=1&query=Praia%20de%20Lopes%20Mendes%2C%20Ilha%20Grande" target="_blank" rel="noopener">חוף Lopes Mendes</a><p>טרק של כ-2.5 שעות בג'ונגל מ-Abraão לאחד החופים היפים בברזיל. עם 2 ימים בלבד – זה הטרק שחובה לבחור.</p><button class="mapbtn" data-q="Praia de Lopes Mendes, Ilha Grande" data-z="15">🗺 הצג במפה למעלה</button></div></li>
         <li class="place attraction"><span class="cat">🥾</span><div><a href="https://www.google.com/maps/search/?api=1&query=Lagoa%20Azul%2C%20Ilha%20Grande" target="_blank" rel="noopener">Lagoa Azul – הלגונה הכחולה</a><p>עצירת שנורקול בשיט Volta a Ilha ללגונות הטורקיז.</p><button class="mapbtn" data-q="Lagoa Azul, Ilha Grande" data-z="15">🗺 הצג במפה למעלה</button></div></li>
         <li class="place nightlife"><span class="cat">🍻</span><div><a href="https://www.google.com/maps/search/?api=1&query=Praia%20do%20Abra%C3%A3o%2C%20Ilha%20Grande" target="_blank" rel="noopener">חוף Abraão – מסיבות Forró ומדורות</a><p>מסיבות Forró על קו המים ומדורות בחוף בלילה.</p><button class="mapbtn" data-q="Praia do Abraão, Ilha Grande" data-z="15">🗺 הצג במפה למעלה</button></div></li>
         <li class="place hotel"><span class="cat">🏨</span><div><a href="https://www.google.com/maps/search/?api=1&query=Pousada%20Naturalia%2C%20Ilha%20Grande" target="_blank" rel="noopener">Pousada Naturalia (בוטיק)</a><p>פוסאדת בוטיק על החוף ב-Vila do Abraão.</p><button class="mapbtn" data-q="Pousada Naturalia, Ilha Grande" data-z="15">🗺 הצג במפה למעלה</button></div></li>
@@ -142,22 +142,27 @@
       <div class="stop-head">
         <span class="num">3</span>
         <div>
-          <h2>🇧🇷 ריו דה ז'ניירו (Rio de Janeiro)</h2>
-          <span class="days">ימים 6–10</span>
+          <h2>🇧🇷 ריו דה ז'ניירו + קרנבל 2027</h2>
+          <span class="days">ימים 5–10 · ה׳–ג׳ 4–9.2.2027 · הקרנבל: 5–9.2</span>
         </div>
       </div>
-      <p class="transfer">➔ 🛥 סירה חזרה ליבשה ← 🚐 שאטל ישיר לריו דה ז'ניירו (כ-3 שעות).</p>
+      <p class="transfer">➔ 🛥 סירה חזרה ליבשה בבוקר יום ה׳ ← 🚐 שאטל ישיר לריו (כ-3 שעות). 🎭 קרנבל! להזמין לינה וכרטיסי סמבודרום 3–6 חודשים מראש – המחירים משולשים והכול נתפס.</p>
       <ul class="places">
         <li class="place attraction"><span class="cat">🥾</span><div><a href="https://www.google.com/maps/search/?api=1&query=Cristo%20Redentor%2C%20Rio%20de%20Janeiro" target="_blank" rel="noopener">פסל ישו הגואל</a><p>האייקון של ריו על הר הקורקובדו – לעלות ברכבת הקוגים או בוואן.</p><button class="mapbtn" data-q="Cristo Redentor, Rio de Janeiro" data-z="15">🗺 הצג במפה למעלה</button></div></li>
         <li class="place attraction"><span class="cat">🥾</span><div><a href="https://www.google.com/maps/search/?api=1&query=P%C3%A3o%20de%20A%C3%A7%C3%BAcar%2C%20Rio%20de%20Janeiro" target="_blank" rel="noopener">הר הסוכר (Pão de Açúcar)</a><p>רכבל לתצפית השקיעה הכי טובה בעיר.</p><button class="mapbtn" data-q="Pão de Açúcar, Rio de Janeiro" data-z="15">🗺 הצג במפה למעלה</button></div></li>
         <li class="place attraction"><span class="cat">🥾</span><div><a href="https://www.google.com/maps/search/?api=1&query=Praia%20de%20Ipanema%2C%20Rio%20de%20Janeiro" target="_blank" rel="noopener">חוף איפנמה</a><p>החוף המפורסם – פוסטו 9, שקיעה ב-Arpoador ליד.</p><button class="mapbtn" data-q="Praia de Ipanema, Rio de Janeiro" data-z="15">🗺 הצג במפה למעלה</button></div></li>
         <li class="place attraction"><span class="cat">🥾</span><div><a href="https://www.google.com/maps/search/?api=1&query=Praia%20de%20Copacabana%2C%20Rio%20de%20Janeiro" target="_blank" rel="noopener">חוף קופקבנה</a><p>טיילת הגלים המפורסמת.</p><button class="mapbtn" data-q="Praia de Copacabana, Rio de Janeiro" data-z="15">🗺 הצג במפה למעלה</button></div></li>
         <li class="place attraction"><span class="cat">🥾</span><div><a href="https://www.google.com/maps/search/?api=1&query=Trilha%20Morro%20Dois%20Irm%C3%A3os%2C%20Vidigal%2C%20Rio%20de%20Janeiro" target="_blank" rel="noopener">טרק Morro Dois Irmãos (מפאבלת וידיגל)</a><p>מוטו-טקסי לראש פאבלת וידיגל + כ-40 דק' הליכה לתצפית הכי שווה בריו.</p><button class="mapbtn" data-q="Trilha Morro Dois Irmãos, Vidigal, Rio de Janeiro" data-z="15">🗺 הצג במפה למעלה</button></div></li>
+        <li class="place attraction"><span class="cat">🥾</span><div><a href="https://www.google.com/maps/search/?api=1&query=Sambodromo%20Marques%20de%20Sapucai%2C%20Rio%20de%20Janeiro" target="_blank" rel="noopener">🎭 הסמבודרום – מצעדי הליגה הבכירה</a><p>האירוע המרכזי של הקרנבל: מצעדי בתי הספר הבכירים בימים ראשון–שלישי 7–9.2 מ-21:00 עד הבוקר. כרטיסים מראש!</p><button class="mapbtn" data-q="Sambodromo Marques de Sapucai, Rio de Janeiro" data-z="15">🗺 הצג במפה למעלה</button></div></li>
+        <li class="place nightlife"><span class="cat">🍻</span><div><a href="https://www.google.com/maps/search/?api=1&query=Cordao%20da%20Bola%20Preta%2C%20Centro%2C%20Rio%20de%20Janeiro" target="_blank" rel="noopener">🎭 בלוקו Cordão da Bola Preta</a><p>בלוקו הרחוב הוותיק והענק של ריו – שבת 6.2 בבוקר במרכז העיר. מיליון חוגגים ברחוב.</p><button class="mapbtn" data-q="Cordao da Bola Preta, Centro, Rio de Janeiro" data-z="15">🗺 הצג במפה למעלה</button></div></li>
+        <li class="place nightlife"><span class="cat">🍻</span><div><a href="https://www.google.com/maps/search/?api=1&query=Largo%20do%20Curvelo%2C%20Santa%20Teresa%2C%20Rio%20de%20Janeiro" target="_blank" rel="noopener">🎭 בלוקו Carmelitas – סנטה טרזה</a><p>בלוקו שכונתי אהוב בסמטאות סנטה טרזה – פתיחת הקרנבל, שישי 5.2.</p><button class="mapbtn" data-q="Largo do Curvelo, Santa Teresa, Rio de Janeiro" data-z="15">🗺 הצג במפה למעלה</button></div></li>
+        <li class="place nightlife"><span class="cat">🍻</span><div><a href="https://www.google.com/maps/search/?api=1&query=Aterro%20do%20Flamengo%2C%20Rio%20de%20Janeiro" target="_blank" rel="noopener">🎭 בלוקו Sargento Pimenta</a><p>סמבה על שירי הביטלס בפארק פלמנגו – שני 8.2. מהבלוקוס הכי כיפיים בעיר.</p><button class="mapbtn" data-q="Aterro do Flamengo, Rio de Janeiro" data-z="15">🗺 הצג במפה למעלה</button></div></li>
+        <li class="place nightlife"><span class="cat">🍻</span><div><a href="https://www.google.com/maps/search/?api=1&query=Praia%20de%20Copacabana%2C%20Posto%205%2C%20Rio%20de%20Janeiro" target="_blank" rel="noopener">🎭 בלוקו da Favorita – קופקבנה</a><p>במת ענק ומסיבה על קו החוף של קופקבנה – שבת 6.2 אחה״צ.</p><button class="mapbtn" data-q="Praia de Copacabana, Posto 5, Rio de Janeiro" data-z="15">🗺 הצג במפה למעלה</button></div></li>
         <li class="place nightlife"><span class="cat">🍻</span><div><a href="https://www.google.com/maps/search/?api=1&query=Pedra%20do%20Sal%2C%20Rio%20de%20Janeiro" target="_blank" rel="noopener">Pedra do Sal – סמבה פתוחה</a><p>מסיבת סמבה פתוחה ברחוב – בימי שני ושישי.</p><button class="mapbtn" data-q="Pedra do Sal, Rio de Janeiro" data-z="15">🗺 הצג במפה למעלה</button></div></li>
         <li class="place nightlife"><span class="cat">🍻</span><div><a href="https://www.google.com/maps/search/?api=1&query=Rio%20Scenarium%2C%20Lapa%2C%20Rio%20de%20Janeiro" target="_blank" rel="noopener">Rio Scenarium – מועדון סמבה בלאפה</a><p>מועדון סמבה איקוני על 3 קומות בלאפה.</p><button class="mapbtn" data-q="Rio Scenarium, Lapa, Rio de Janeiro" data-z="15">🗺 הצג במפה למעלה</button></div></li>
         <li class="place nightlife"><span class="cat">🍻</span><div><a href="https://www.google.com/maps/search/?api=1&query=Bosque%20Bar%2C%20Rio%20de%20Janeiro" target="_blank" rel="noopener">Bosque Bar – רופטופ</a><p>בר רופטופ ירוק ואווירתי.</p><button class="mapbtn" data-q="Bosque Bar, Rio de Janeiro" data-z="15">🗺 הצג במפה למעלה</button></div></li>
         <li class="place nightlife"><span class="cat">🍻</span><div><a href="https://www.google.com/maps/search/?api=1&query=Canastra%20Bar%2C%20Ipanema%2C%20Rio%20de%20Janeiro" target="_blank" rel="noopener">Canastra Rose – בר קוקטיילים</a><p>בר קוקטיילים/יין צרפתי-ברזילאי באיפנמה.</p><button class="mapbtn" data-q="Canastra Bar, Ipanema, Rio de Janeiro" data-z="15">🗺 הצג במפה למעלה</button></div></li>
-        <li class="place hotel"><span class="cat">🏨</span><div><a href="https://www.google.com/maps/search/?api=1&query=Yoo2%20Rio%20de%20Janeiro%20by%20Intercity" target="_blank" rel="noopener">Yoo2 Rio (בוטיק)</a><p>מלון בוטיק מעוצב עם רופטופ מול הר הסוכר (בוטפוגו).</p><button class="mapbtn" data-q="Yoo2 Rio de Janeiro by Intercity" data-z="15">🗺 הצג במפה למעלה</button></div></li>
+        <li class="place hotel"><span class="cat">🏨</span><div><a href="https://www.google.com/maps/search/?api=1&query=Yoo2%20Rio%20de%20Janeiro%20by%20Intercity" target="_blank" rel="noopener">Yoo2 Rio (בוטיק)</a><p>מלון בוטיק מעוצב עם רופטופ מול הר הסוכר (בוטפוגו). בקרנבל – להזמין חודשים מראש!</p><button class="mapbtn" data-q="Yoo2 Rio de Janeiro by Intercity" data-z="15">🗺 הצג במפה למעלה</button></div></li>
         <li class="place hotel"><span class="cat">🏨</span><div><a href="https://www.google.com/maps/search/?api=1&query=Janeiro%20Hotel%2C%20Leblon%2C%20Rio%20de%20Janeiro" target="_blank" rel="noopener">Janeiro Hotel (בוטיק)</a><p>מלון בוטיק שקט מול חוף לבלון.</p><button class="mapbtn" data-q="Janeiro Hotel, Leblon, Rio de Janeiro" data-z="15">🗺 הצג במפה למעלה</button></div></li>
         <li class="place hotel"><span class="cat">🏨</span><div><a href="https://www.google.com/maps/search/?api=1&query=Selina%20Copacabana%2C%20Rio%20de%20Janeiro" target="_blank" rel="noopener">Selina Copacabana (הוסטל)</a><p>הוסטל-בוטיק ברמה גבוהה בקופקבנה.</p><button class="mapbtn" data-q="Selina Copacabana, Rio de Janeiro" data-z="15">🗺 הצג במפה למעלה</button></div></li>
         <li class="place hotel"><span class="cat">🏨</span><div><a href="https://www.google.com/maps/search/?api=1&query=Ipanema%20Beach%20House%2C%20Rio%20de%20Janeiro" target="_blank" rel="noopener">Ipanema Beach House (הוסטל)</a><p>הוסטל עם בריכה במרחק הליכה מחוף איפנמה.</p><button class="mapbtn" data-q="Ipanema Beach House, Rio de Janeiro" data-z="15">🗺 הצג במפה למעלה</button></div></li>
@@ -171,10 +176,10 @@
         <span class="num">4</span>
         <div>
           <h2>🇨🇴 עמק הקפה – סאלנטו (Salento)</h2>
-          <span class="days">ימים 11–13 (1–3 בקולומביה)</span>
+          <span class="days">ימים 11–13 · 10–12.2.2027 (1–3 בקולומביה)</span>
         </div>
       </div>
-      <p class="transfer">➔ ✈ ריו (GIG) ← בוגוטה (BOG) ← טיסת פנים לפרירה (PEI) / ארמניה (AXM) ← 🚕 מונית קצרה לסאלנטו.</p>
+      <p class="transfer">➔ ✈ יום ד׳ 10.2 (למחרת סיום הקרנבל): ריו (GIG) ← בוגוטה (BOG) ← טיסת פנים לפרירה (PEI) / ארמניה (AXM) ← 🚕 מונית קצרה לסאלנטו.</p>
       <ul class="places">
         <li class="place transport"><span class="cat">✈</span><div><a href="https://www.google.com/maps/search/?api=1&query=Mateca%C3%B1a%20International%20Airport%2C%20Pereira" target="_blank" rel="noopener">שדה תעופה פרירה (PEI)</a><p>אופציית נחיתה 1 – כשעה נסיעה לסאלנטו.</p><button class="mapbtn" data-q="Matecaña International Airport, Pereira" data-z="15">🗺 הצג במפה למעלה</button></div></li>
         <li class="place transport"><span class="cat">✈</span><div><a href="https://www.google.com/maps/search/?api=1&query=El%20Ed%C3%A9n%20International%20Airport%2C%20Armenia" target="_blank" rel="noopener">שדה תעופה ארמניה (AXM)</a><p>אופציית נחיתה 2 – כ-50 דק' נסיעה לסאלנטו.</p><button class="mapbtn" data-q="El Edén International Airport, Armenia" data-z="15">🗺 הצג במפה למעלה</button></div></li>
@@ -194,7 +199,7 @@
         <span class="num">5</span>
         <div>
           <h2>🇨🇴 מדג'ין (Medellín)</h2>
-          <span class="days">ימים 14–19 (4–9 בקולומביה)</span>
+          <span class="days">ימים 14–19 · 13–18.2.2027 (4–9 בקולומביה)</span>
         </div>
       </div>
       <p class="transfer">➔ ✈ טיסה קצרה (50 דק') מפרירה למדג'ין (או 🚌 אוטובוס 6–8 שעות).</p>
@@ -219,7 +224,7 @@
         <span class="num">6</span>
         <div>
           <h2>🇨🇴 סנטה מרטה, מינקה וטיירונה</h2>
-          <span class="days">ימים 20–24 (10–14 בקולומביה)</span>
+          <span class="days">ימים 20–24 · 19–23.2.2027 (10–14 בקולומביה)</span>
         </div>
       </div>
       <p class="transfer">➔ ✈ טיסה ישירה ממדג'ין (MDE) לסנטה מרטה (SMR) – כ-1.25 שעות.</p>
@@ -243,7 +248,7 @@
         <span class="num">7</span>
         <div>
           <h2>🇨🇴 קרטחנה (Cartagena)</h2>
-          <span class="days">ימים 25–27 (15–17 בקולומביה)</span>
+          <span class="days">ימים 25–27 · 24–26.2.2027 (15–17 בקולומביה)</span>
         </div>
       </div>
       <p class="transfer">➔ 🚌 שאטל/אוטובוס יבשתי מסנטה מרטה לקרטחנה (4–5 שעות).</p>
@@ -269,7 +274,7 @@
         <span class="num">8</span>
         <div>
           <h2>🇨🇴 האי סאן אנדרס (San Andrés)</h2>
-          <span class="days">ימים 28–30 (18–20 בקולומביה)</span>
+          <span class="days">ימים 28–30 · 27.2–1.3.2027 (18–20 בקולומביה)</span>
         </div>
       </div>
       <p class="transfer">➔ ✈ טיסה ישירה מקרטחנה (CTG) לסאן אנדרס (ADZ) – כ-1.5 שעות. חובה 'כרטיס תייר' מהדלפק בשדה.</p>
